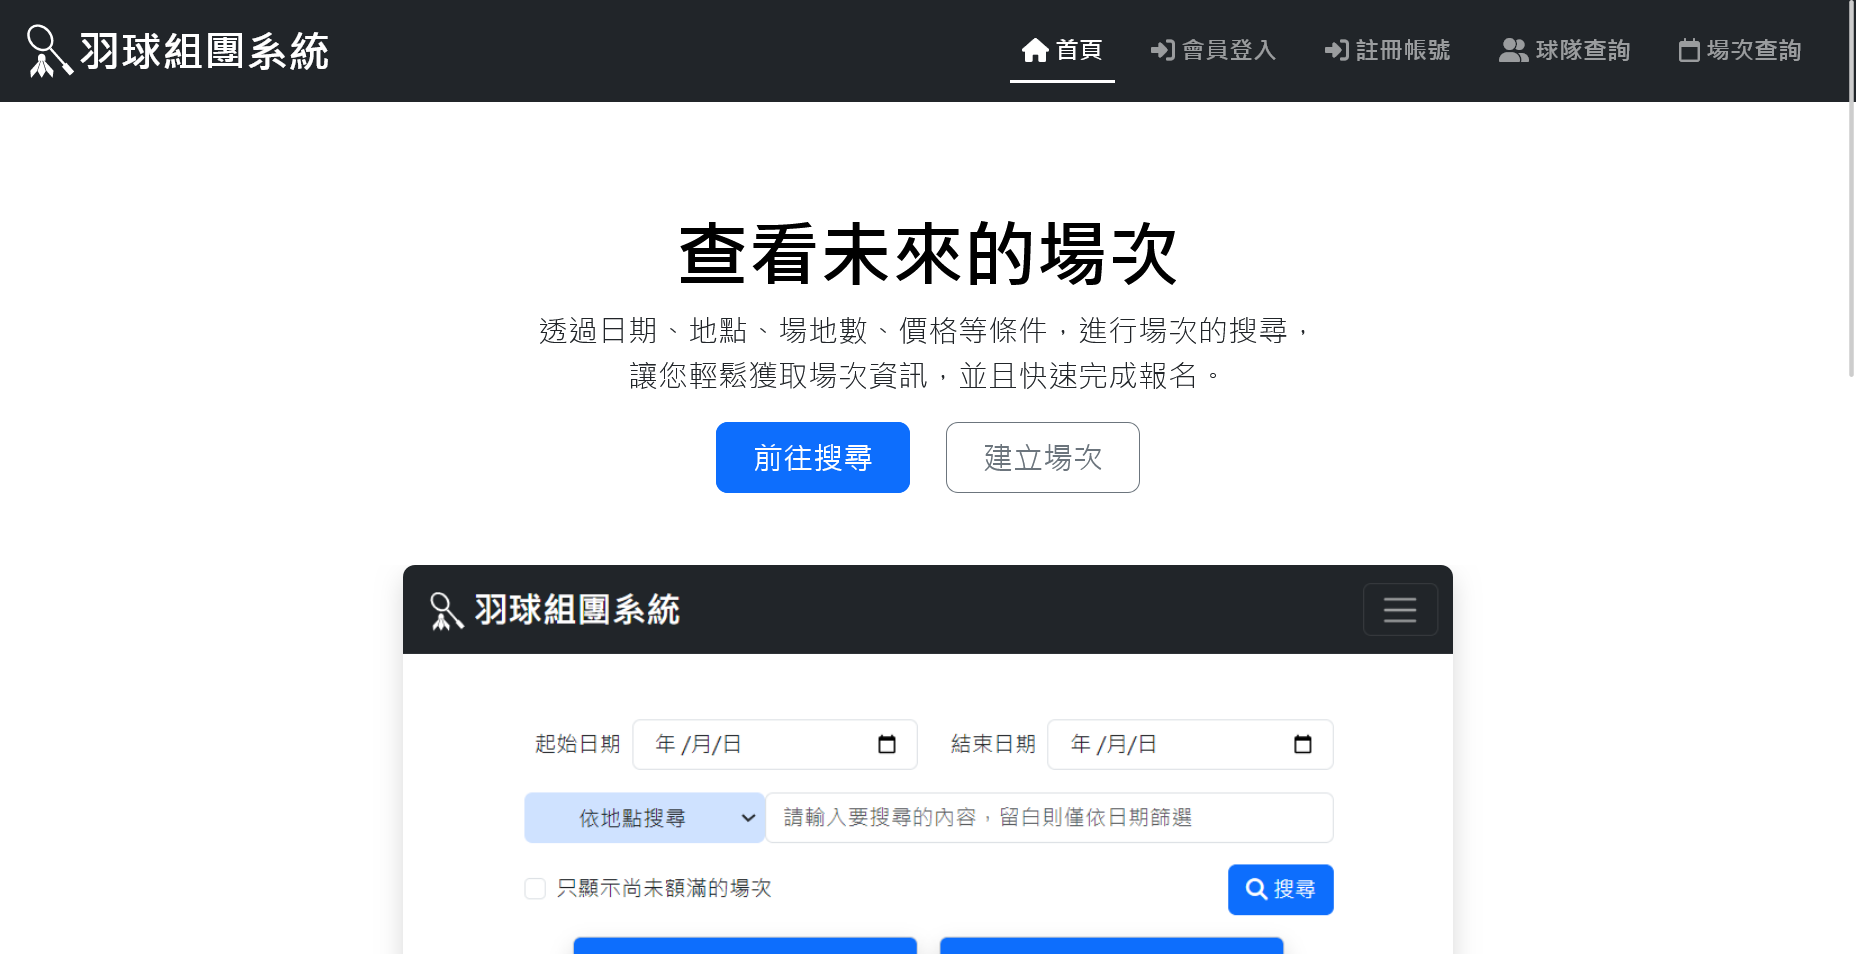
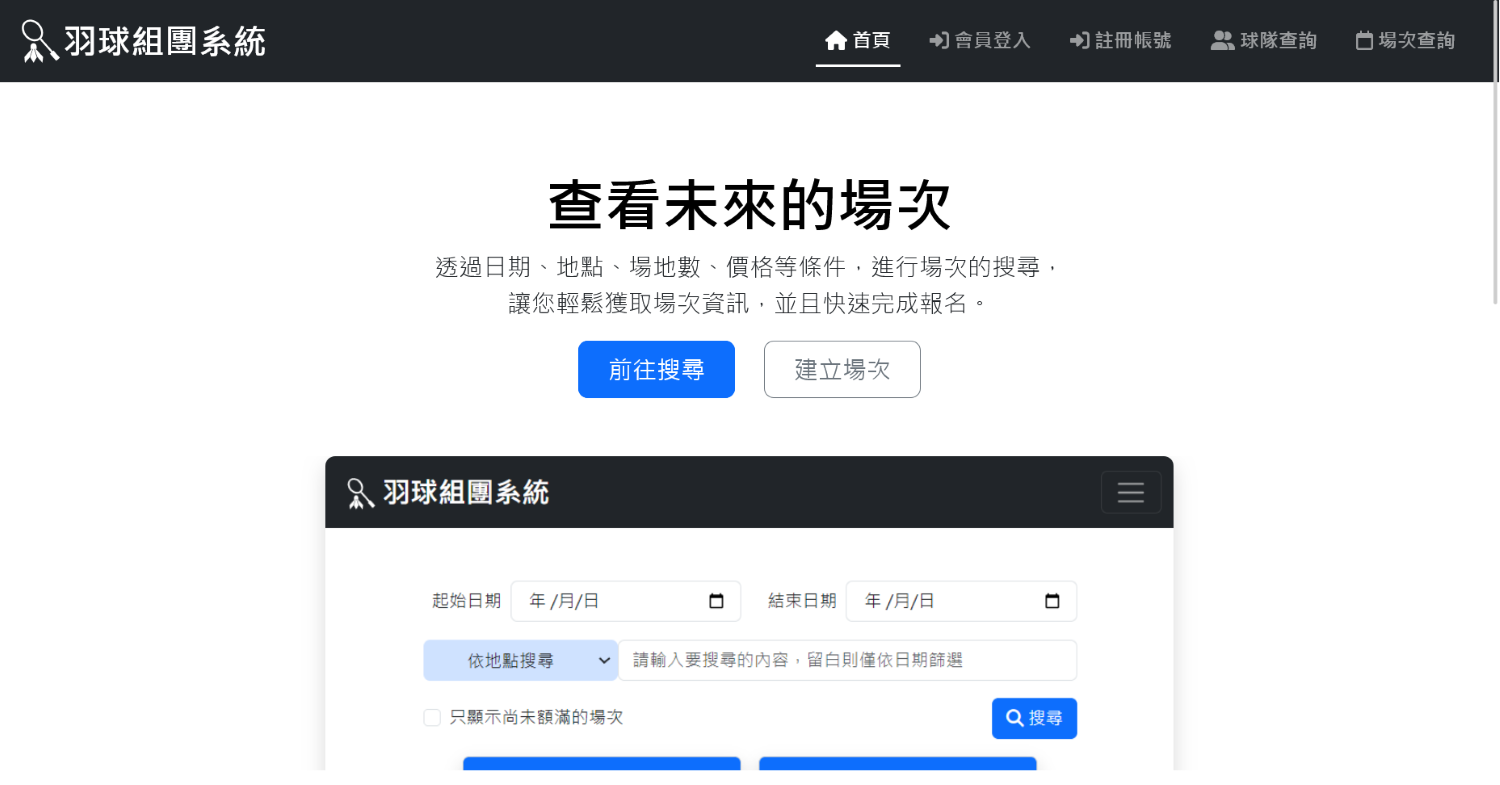
modify open graph size

diff --git a/client/public/index.html b/client/public/index.html
@@ -3,10 +3,12 @@
   <head>
     <meta charset="utf-8" />
     <meta name="viewport" content="width=device-width, initial-scale=1" />
+    <meta property="og:url" content="https://badmintown.onrender.com/" />
+    <meta property="og:locale" content="zh_TW" />
+    <meta property="og:type" content="website" />
     <meta property="og:image" content="%PUBLIC_URL%/opengraph.png" />
+    <meta property="og:image" content="%PUBLIC_URL%/opengraph-sm.png" />
     <meta property="og:image:type" content="image/png" />
-    <meta property="og:image:width" content="478" />
-    <meta property="og:image:height" content="228" />
     <meta property="og:title" content="羽球組團系統" />
     <meta
       property="og:description"
